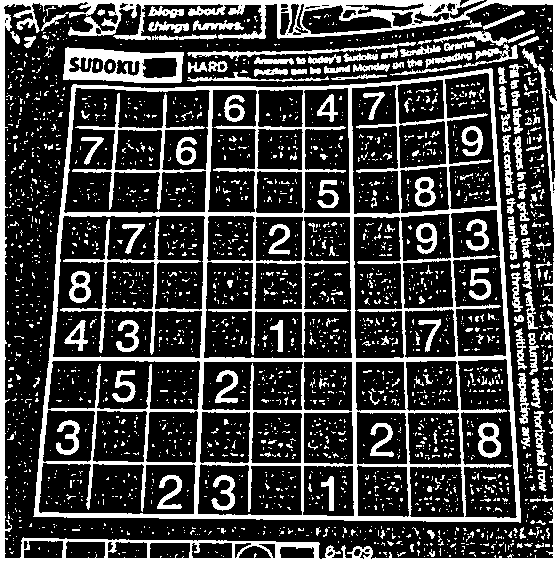
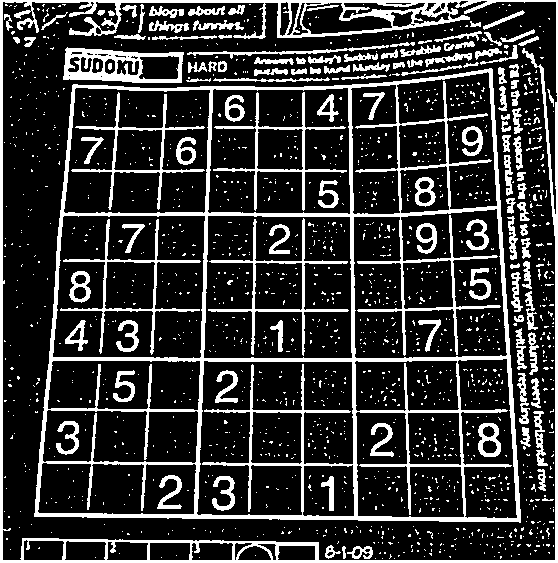
choose parameters

diff --git a/image_enhancement.py b/image_enhancement.py
@@ -2,7 +2,36 @@ import cv2
 import numpy as np
 import matplotlib.pyplot as plt
 
-def adaptive_thresholding(img, block_size=11, C=2):
+def gaussian_blur(img, kernel_size=3, sigma=0):
+    """
+    Apply Gaussian blur to the input image.
+    :param img: Input grayscale image (np.uint8)
+    :param kernel_size: Size of the Gaussian kernel (must be odd)
+    :param sigma: Standard deviation for Gaussian kernel
+    :return: Blurred image (np.uint8)
+    """
+    # Generate Gaussian kernel
+    k = kernel_size // 2
+    x = np.arange(-k, k + 1)
+    y = np.arange(-k, k + 1)
+    x, y = np.meshgrid(x, y)
+    if sigma <= 0:
+        sigma = 0.3 * ((kernel_size - 1) * 0.5 - 1) + 0.8
+    gaussian_kernel = np.exp(-(x**2 + y**2) / (2 * sigma**2)) / (2 * np.pi * sigma**2)
+    gaussian_kernel /= gaussian_kernel.sum()
+    
+    # Apply convolution
+    pad_size = kernel_size // 2
+    img_padded = np.pad(img, pad_size, mode='constant', constant_values=0)
+    blurred_img = np.zeros_like(img)
+    for i in range(img.shape[0]):
+        for j in range(img.shape[1]):
+            region = img_padded[i:i + kernel_size, j:j + kernel_size]
+            blurred_img[i, j] = np.sum(region * gaussian_kernel)
+    
+    return blurred_img
+
+def adaptive_thresholding(img, block_size=7, C=2):
     """
     Apply adaptive thresholding to the input image.
     :param img: Input grayscale image (np.uint8)
@@ -10,6 +39,10 @@ def adaptive_thresholding(img, block_size=11, C=2):
     :param C: Constant subtracted from the mean
     :return: Thresholded image (np.uint8)
     """
+    # Ensure block size is odd
+    if block_size % 2 == 0:
+        raise ValueError("Block size must be odd.")
+    
     # Get image dimensions
     rows, cols = img.shape
     
@@ -23,10 +56,12 @@ def adaptive_thresholding(img, block_size=11, C=2):
     # Apply adaptive thresholding
     for i in range(rows):
         for j in range(cols):
-            region = img_padded[i:i + block_size, j:j + block_size]  # Corrected indexing
+            region = img_padded[i:i + block_size, j:j + block_size]
             local_mean = np.mean(region)
-            threshold = local_mean - C
-            thresholded_img[i, j] = 0 if img[i, j] > threshold else 255  # Inverted output
+            if img[i, j] > local_mean - C:
+                thresholded_img[i, j] = 0
+            else:
+                thresholded_img[i, j] = 255
     
     return thresholded_img
 
@@ -36,15 +71,19 @@ if __name__ == "__main__":
     if img is None:
         raise FileNotFoundError("Image not found!")
     
-    # Process
-    enhanced = adaptive_thresholding(img)
+    # Apply Gaussian blur
+    blurred_img = gaussian_blur(img)
+    
+    # Apply adaptive thresholding
+    enhanced_img = adaptive_thresholding(blurred_img)
     
     # Save the result
-    cv2.imwrite('output_1.png', enhanced)
+    cv2.imwrite('output_1.png', enhanced_img)
     
     # Display
     plt.figure(figsize=(12,6))
-    plt.subplot(121), plt.imshow(img, cmap='gray'), plt.title('Original'), plt.axis('off')
-    plt.subplot(122), plt.imshow(enhanced, cmap='gray'), plt.title('Enhanced'), plt.axis('off')
+    plt.subplot(131), plt.imshow(img, cmap='gray'), plt.title('Original'), plt.axis('off')
+    plt.subplot(132), plt.imshow(blurred_img, cmap='gray'), plt.title('Gaussian Blurred'), plt.axis('off')
+    plt.subplot(133), plt.imshow(enhanced_img, cmap='gray'), plt.title('Enhanced'), plt.axis('off')
     plt.tight_layout()
     plt.show()

diff --git a/Q1.py b/Q1.py
@@ -1,0 +1,58 @@
+import cv2
+import numpy as np
+import matplotlib.pyplot as plt
+def plot_comparison(original, filtered, title_filtered):
+    fig, (ax1, ax2) = plt.subplots(ncols=2, figsize=(10, 5), sharex=True, sharey=True)
+    ax1.imshow(original, cmap='gray')
+    ax1.set_title('Original')
+    ax1.axis('off')
+    ax2.imshow(filtered, cmap='gray')
+    ax2.set_title(title_filtered)
+    ax2.axis('off')
+    plt.show()
+
+def gaussian_blur(img, kernel_size, sigma):
+    # Generate Gaussian kernel
+    k = kernel_size // 2
+    x, y = np.meshgrid(np.arange(-k, k+1), np.arange(-k, k+1))
+    if sigma <= 0:
+        sigma = 0.3 * ((kernel_size-1)*0.5-1)+0.8
+    gaussian_kernel = 1 / (2 * np.pi * sigma**2) * np.exp(-(x**2 + y**2) / (2 * sigma**2))
+    gaussian_kernel /= gaussian_kernel.sum()
+
+    # Apply convolution
+    pad = kernel_size // 2
+    padded = np.pad(img, ((pad, pad), (pad, pad)), mode='constant', constant_values=0)
+    blurred = np.zeros_like(img)
+    for i in range(img.shape[0]):
+        for j in range(img.shape[1]):
+            region = padded[i:i+kernel_size, j:j+kernel_size]
+            blurred[i, j] = np.sum(region * gaussian_kernel)
+    return blurred
+
+def adaptive_threshold(img, block_size, C):
+    # Ensure block size is odd
+    if block_size % 2 == 0:
+        raise ValueError("Block size must be odd.")
+    
+    pad = block_size // 2
+    padded = np.pad(img, ((pad, pad), (pad, pad)), mode='constant', constant_values=255)
+    thresholded = np.zeros_like(img)
+    for i in range(img.shape[0]):
+        for j in range(img.shape[1]):
+            region = padded[i:i+block_size, j:j+block_size]
+            local_mean = np.mean(region)
+            thresholded[i, j] = 0 if img[i, j] > local_mean - C else 255
+    return thresholded
+
+# Read image
+image = cv2.imread('sudoku.png', cv2.IMREAD_GRAYSCALE)
+
+gray = gaussian_blur(image, 3, 0)
+thresh = adaptive_threshold(gray, 7, 2)
+
+# Plot result
+plot_comparison(gray, thresh, 'Processed')
+
+# Save result
+cv2.imwrite('output_1.png', thresh)
